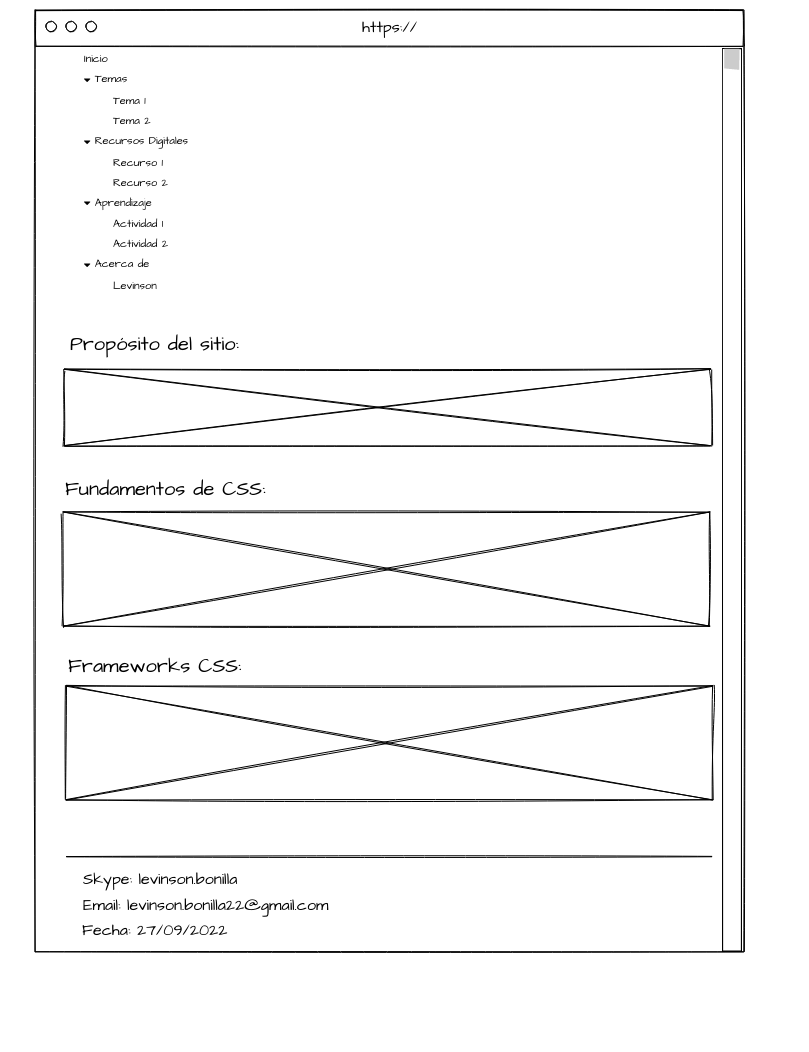
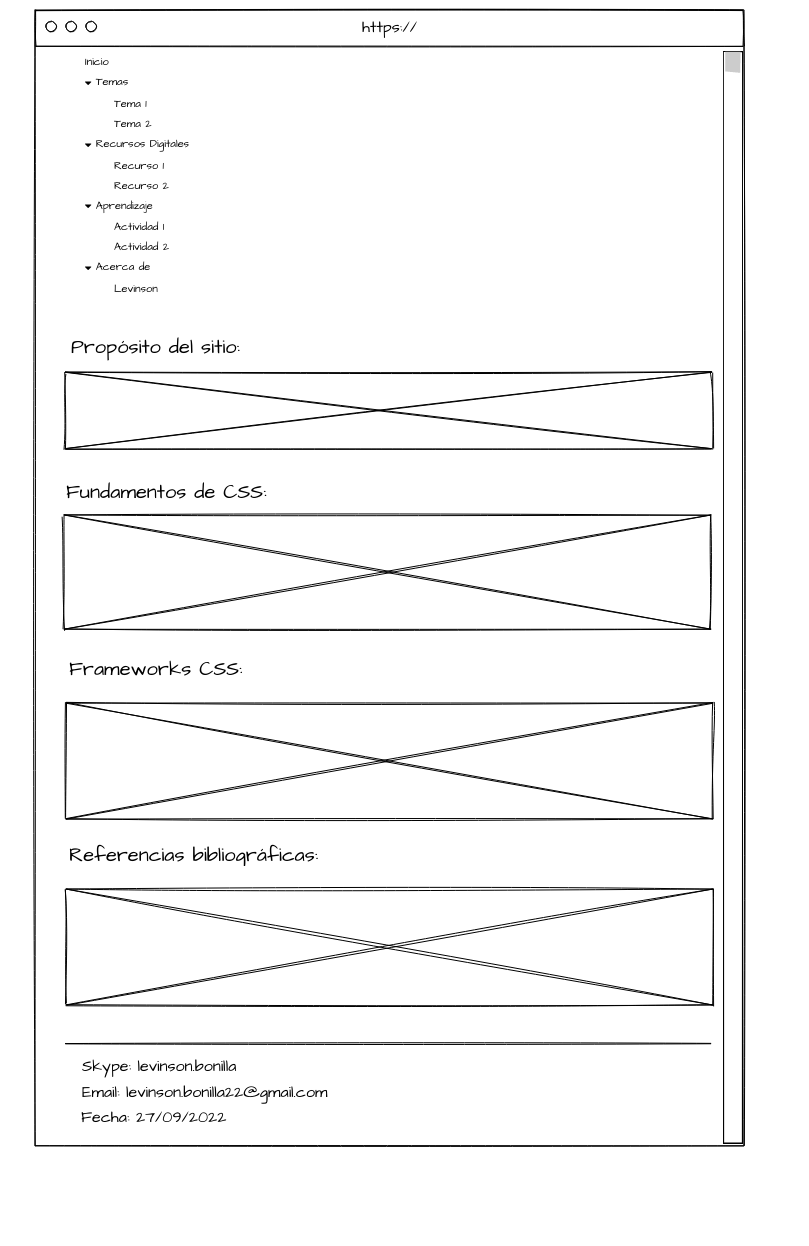
Desarrollo de Fase 2

Changed region(s): [[0.0309, 0.0, 0.9271, 0.943]]

diff --git a/fase2/design.html b/fase2/design.html
@@ -216,6 +216,32 @@
 
     	<!-- Fin de frameworks -->
 
+    	<!-- Inicio referencias bibliograficas -->
+
+    	<h4>Referencias bibliográficas:</h4>
+    	<p>
+    		<li id="li">
+    			<a href="https://desarrolloweb.com/home/tailwind-css" target="_blank"> Tailwind CSS </a>
+    		</li>
+    		<li id="li">
+    			<a href="https://programmerclick.com/article/31951551187/" target="_blank"> Tutorial de CSS framework Bulma </a>
+    		</li>
+    		<li id="li">
+    			<a href="https://code.tutsplus.com/es/tutorials/purecss-offers-an-intriguing-alternative-to-bootstrap--cms-25176" target="_blank"> Pure.css Ofrece una Alternartiva Interesante a Bootstrap </a>
+    		</li>
+    		<li id="li">
+    			<a href="https://rockcontent.com/es/blog/bootstrap/" target="_blank"> Bootstrap: guía para principiantes de qué es, por qué y cómo usarlo </a>
+    		</li>
+    		<li id="li">
+    			<a href="https://gutl.jovenclub.cu/wp-content/uploads/2013/10/El+gran+libro+de+HTML5+CSS3+y+Javascrip.pdf" target="_blank"> El gran libro de HTML5, CSS3 y Javascript </a>
+    		</li>
+    		<li id="li">
+    			<a href="https://www.uv.es/jac/guia/estilo2.htm#punto1" target="_blank"> Elementos modificables con CSS </a>
+    		</li>    			
+    	</p>
+
+    	<!-- Fin referencias bibliograficas -->
+
     	<h5><a href="../index.html"> Inicio </a></h5>
 
     </article>

diff --git a/index.html b/index.html
@@ -27,7 +27,7 @@
 
         <p>
             <h2>Mockup</h2>
-            <img src="img/mockup.png" style="height: 600px;width: 600px;">
+            <img src="img/mockup.png" style="height: 800px;width: 600px;">
         </p>
         
     </article>
